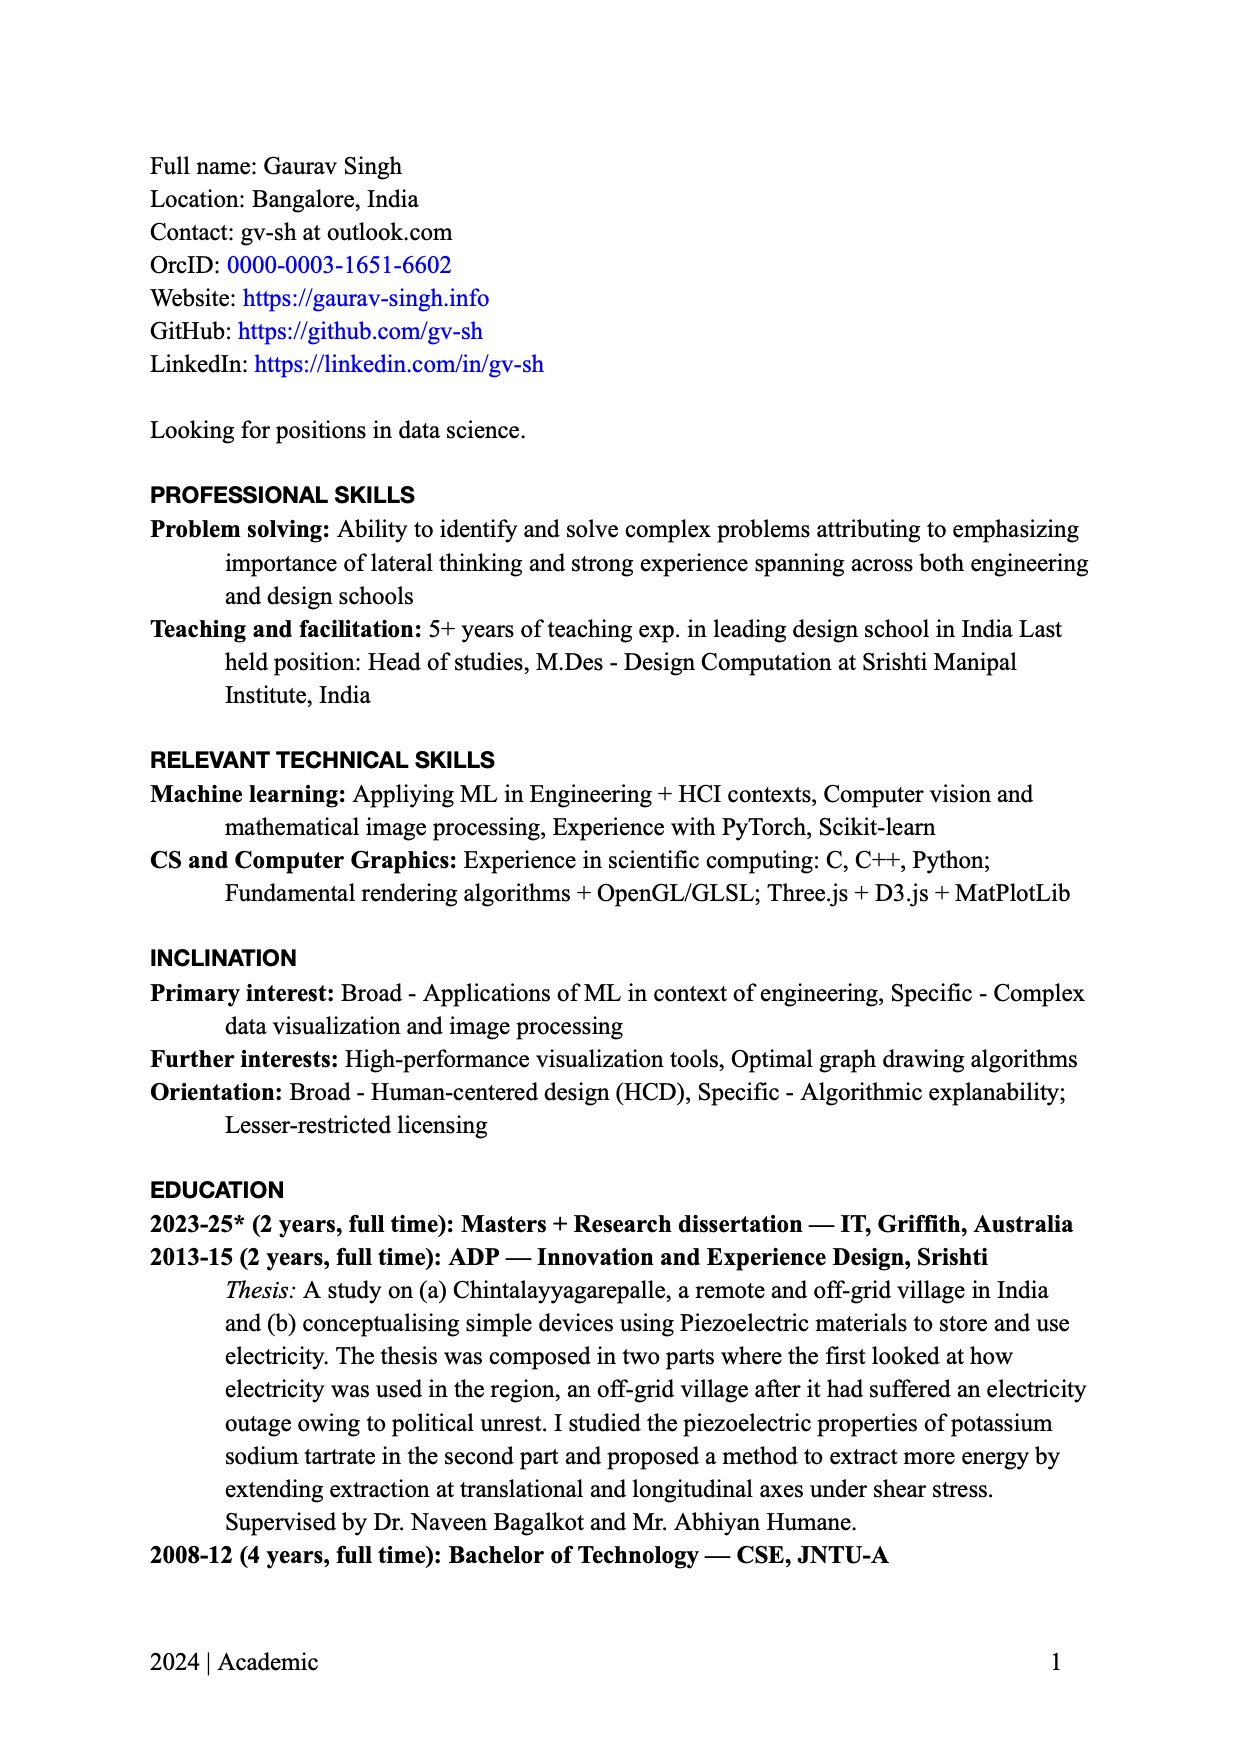
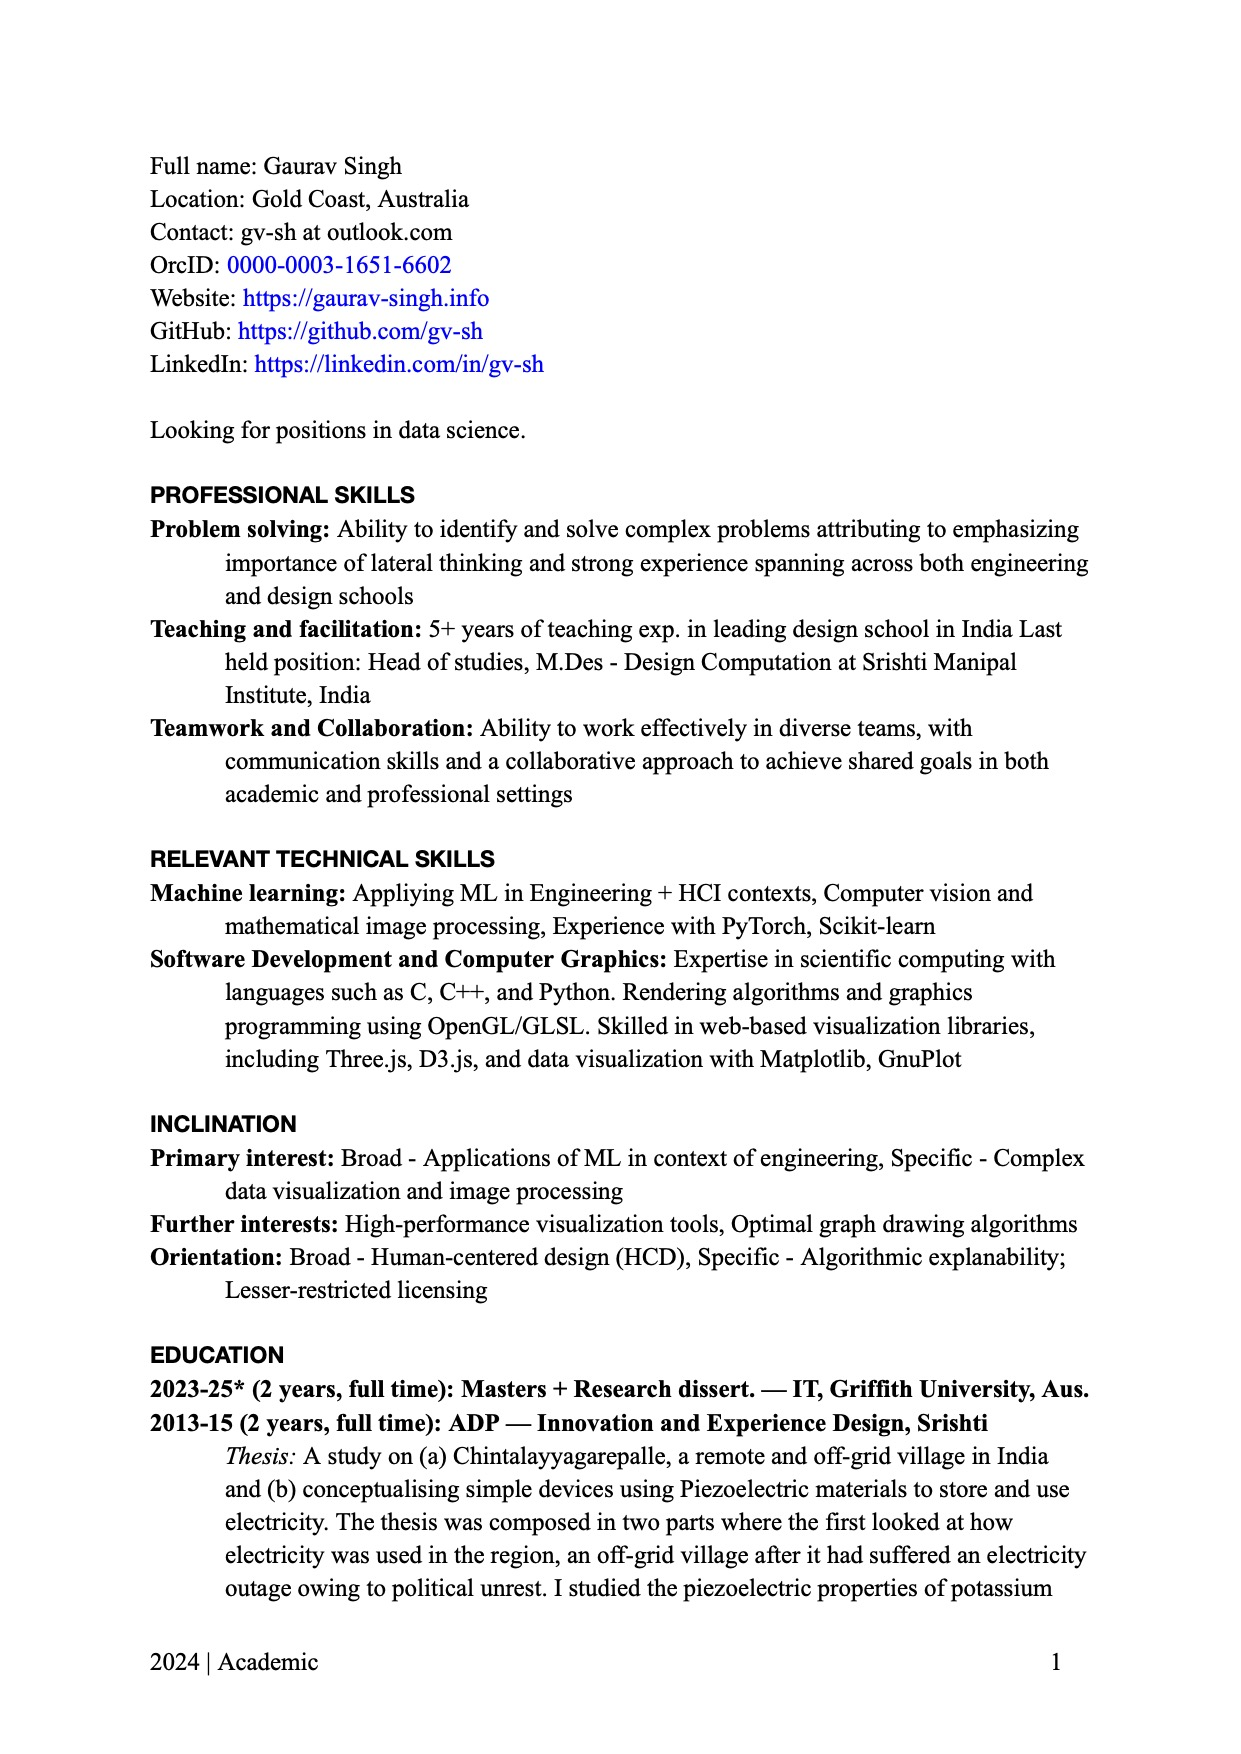
update cv

Changed region(s): [[0.1225, 0.4002, 0.888, 0.9236], [0.2143, 0.0924, 0.3674, 0.1231]]

diff --git a/docs/cv/index.html b/docs/cv/index.html
@@ -55,11 +55,17 @@
         <main>
             <div class="docs">
     <div>
-        <img class="border" src="/assets/cv/2024_a.jpg">
+        <img class="border" src="/assets/cv/2024.jpg">
         <div class="caption">
-            <a href="https://drive.google.com/file/d/1zNfmLgWPNLpIJbArrSV44vJIBMK8RdER/view?usp=sharing">Download Academic CV (2024)</a> 5 pages, 130KB
+            <a href="https://drive.google.com/file/d/1nUdmJm-gS4SrO4rtHZQgLBBtzlgr10eV/view?usp=share_link">Download CV (2024)</a> 3 pages, 91KB
         </div>
     </div>
+<p><div>
+<img class="border" src="/assets/cv/2024_a.jpg">
+<div class="caption">
+<a href="https://drive.google.com/file/d/1zNfmLgWPNLpIJbArrSV44vJIBMK8RdER/view?usp=sharing">Download Academic CV (2024)</a> 5 pages, 130KB
+</div>
+</div></p>
 <p><div>
 <img class="border" src="/assets/cv/2022_sop.jpg">
 <div class="caption">

diff --git a/docs/README/index.html b/docs/README/index.html
@@ -1,3 +1,2 @@
 <p>Build instructions:
-npx @11ty/eleventy --input=. --output=docs --serve
-pandoc -s -t revealjs -o present.html _present/present.md</p>
+npx @11ty/eleventy --input=. --output=docs --serve</p>

diff --git a/bundle.css b/bundle.css
@@ -215,7 +215,7 @@ table th {
     text-align: left;
     font-size: 14px;
     text-transform: uppercase;
-    letter-spacing: 0.1em;
+    font-family: Helvetica, Arial, sans-serif;
 }
 
 table td {

diff --git a/docs/bundle.css b/docs/bundle.css
@@ -215,7 +215,7 @@ table th {
     text-align: left;
     font-size: 14px;
     text-transform: uppercase;
-    letter-spacing: 0.1em;
+    font-family: Helvetica, Arial, sans-serif;
 }
 
 table td {

diff --git a/pages/cv.md b/pages/cv.md
@@ -7,6 +7,13 @@ permalink: /cv/
 
 <div class="docs">
     <div>
+        <img class="border" src="/assets/cv/2024.jpg">
+        <div class="caption">
+            <a href="https://drive.google.com/file/d/1nUdmJm-gS4SrO4rtHZQgLBBtzlgr10eV/view?usp=share_link">Download CV (2024)</a> 3 pages, 91KB
+        </div>
+    </div>
+
+    <div>
         <img class="border" src="/assets/cv/2024_a.jpg">
         <div class="caption">
             <a href="https://drive.google.com/file/d/1zNfmLgWPNLpIJbArrSV44vJIBMK8RdER/view?usp=sharing">Download Academic CV (2024)</a> 5 pages, 130KB

diff --git a/README.md b/README.md
@@ -1,3 +1,2 @@
 Build instructions:
 npx @11ty/eleventy --input=. --output=docs --serve
-pandoc -s -t revealjs -o present.html _present/present.md
